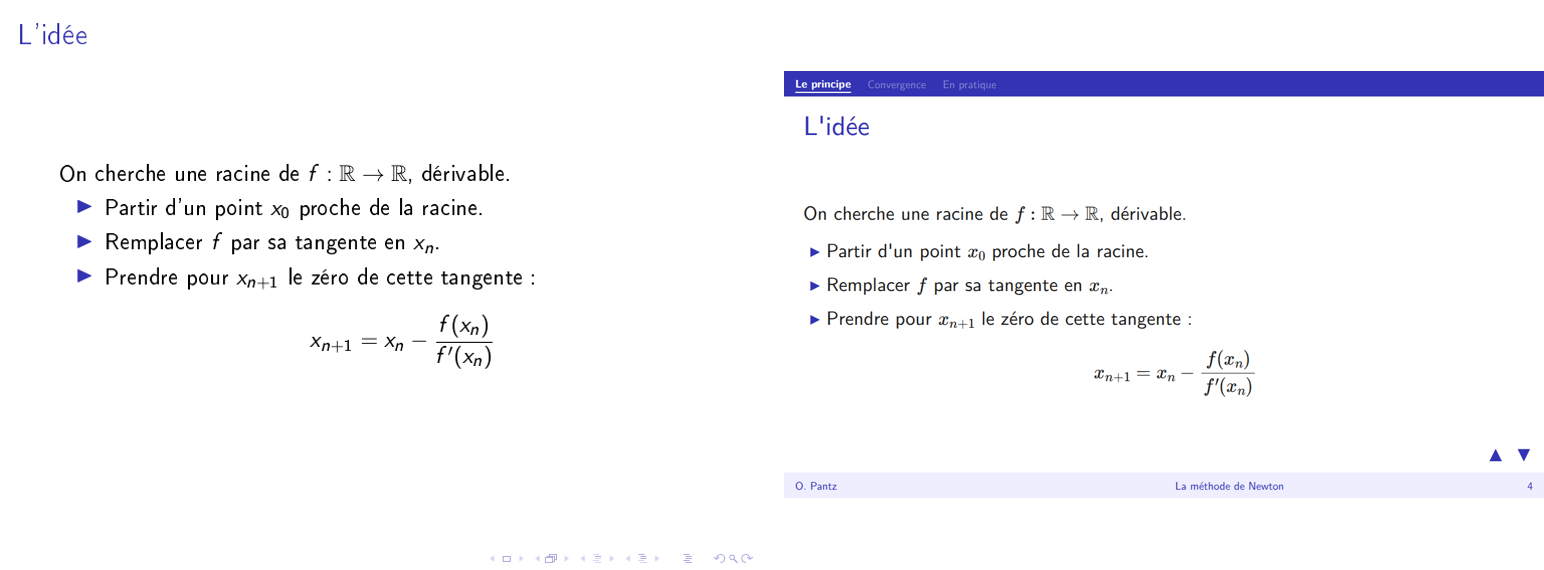
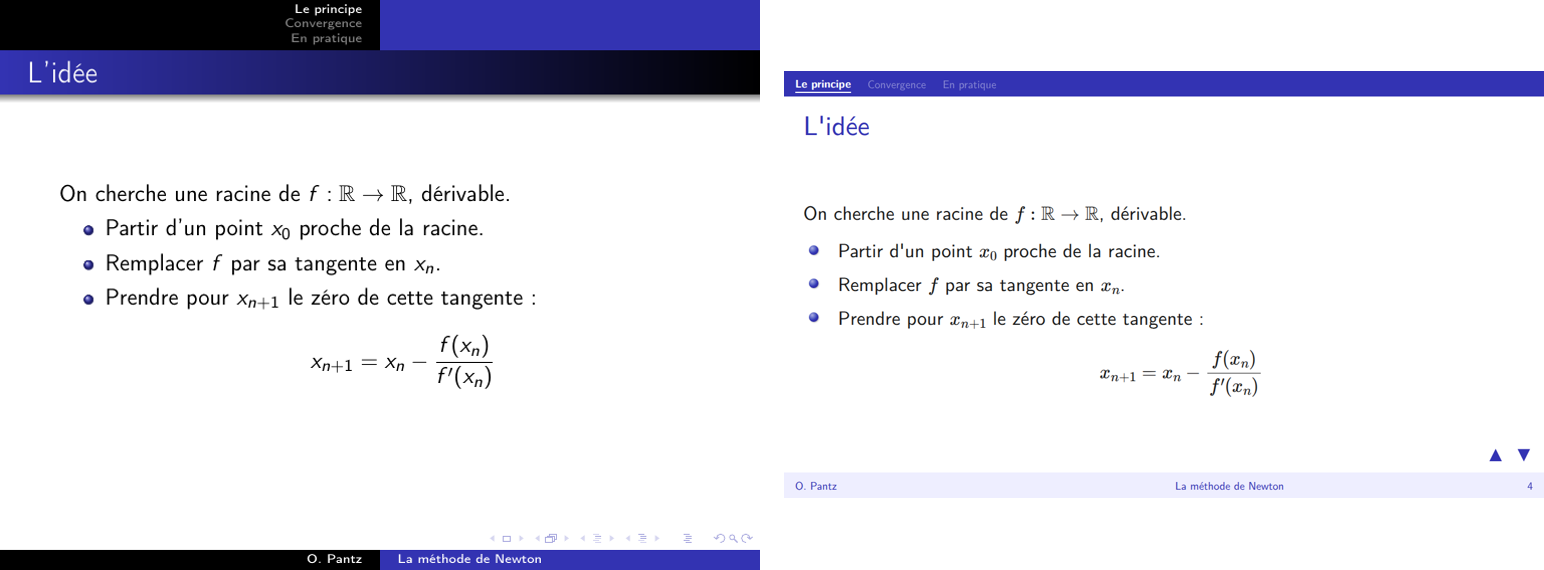
beamer theme: Warsaw-style lists, page numbers back in the examples, comparison against Warsaw
- bullets are small shaded balls, enumerations numbered balls, coloured
  by the enclosing block (blue / red / green) as in Warsaw
- examples/beamer.html and examples/newton/newton.html get class
  pagenumber on #slides; documented in the guide
- docs/compare*.png regenerated from the Warsaw PDF

diff --git a/themes/beamer.css b/themes/beamer.css
@@ -70,8 +70,39 @@ time { font-size: 0.7em; color: var(--structure-light); }
 em     { color: var(--structure); font-style: normal; }
 strong { color: var(--structure); }
 
-/* Lists: beamer's triangle bullets (colour comes from layouts.css ::marker) */
-section ul { list-style-type: "\25B8  "; }
+/* Lists, like Warsaw (inner theme "rounded"): a small shaded ball for
+ * bullets, a numbered ball for enumerations. Inside a block, the balls
+ * take the block's colour (--block-color: blue, red or green). */
+section ul, section ol { list-style: none; padding-left: 0.3em; }
+section ul > li, section ol > li { position: relative; padding-left: 1.5em; }
+section ul > li::before, section ol > li::before {
+	content: "";
+	position: absolute;
+	left: 0;
+	border-radius: 50%;
+	background: radial-gradient(circle at 35% 30%,
+		color-mix(in srgb, var(--block-color, var(--structure)) 40%, white) 0%,
+		var(--block-color, var(--structure)) 55%,
+		color-mix(in srgb, var(--block-color, var(--structure)) 80%, black) 100%);
+	box-shadow: 0.03em 0.03em 0.08em rgba(0, 0, 0, 0.4);
+}
+section ul > li::before {
+	top: 0.5em;
+	width: 0.5em;
+	height: 0.5em;
+}
+section ol { counter-reset: item; }
+section ol > li { counter-increment: item; }
+section ol > li::before {
+	content: counter(item);
+	top: 0.2em;
+	width: 1.1em;
+	height: 1.1em;
+	line-height: 1.1em;
+	text-align: center;
+	font-size: 0.75em;
+	color: var(--paper);
+}
 
 /* ---- headline: table of contents ---- */
 #toc {
@@ -130,7 +161,10 @@ section .toc .toc-level-1::before {
 	border-radius: 50%;
 	text-align: center;
 	font-size: 0.8em;
-	background: var(--structure);
+	background: radial-gradient(circle at 35% 30%,
+		color-mix(in srgb, var(--structure) 40%, white) 0%,
+		var(--structure) 55%,
+		color-mix(in srgb, var(--structure) 80%, black) 100%);
 	color: var(--paper);
 	box-shadow: 0.05em 0.05em 0.15em rgba(0, 0, 0, 0.4);
 	vertical-align: 0.1em;

diff --git a/examples/beamer.html b/examples/beamer.html
@@ -14,7 +14,7 @@
   <nav id="toc"></nav>
   <div id="footline"><span>O. Pantz</span><span>Transition.js — un exemple inspiré de beamer</span></div>
 
-  <div id="slides">
+  <div id="slides" class="pagenumber">
     <section>
       <div class="center">
         <hgroup>

diff --git a/examples/newton/newton.html b/examples/newton/newton.html
@@ -15,7 +15,7 @@
   <nav id="toc"></nav>
   <div id="footline"><span>O. Pantz</span><span>La méthode de Newton</span></div>
 
-  <div id="slides">
+  <div id="slides" class="pagenumber">
 
     <section>
       <div class="center">

diff --git a/GUIDE.md b/GUIDE.md
@@ -272,7 +272,7 @@ Les couleurs viennent de trois variables que le thème peut redéfinir : `--stru
 ```html
 <nav id="toc"></nav>                               <!-- barre de sommaire, en haut -->
 <div id="footline"><span>Auteur</span><span>Titre</span></div>   <!-- en bas -->
-<div id="slides">
+<div id="slides" class="pagenumber">                <!-- pagenumber : numéro en bas à droite de chaque diapo -->
   <section><div><hgroup><h1>Titre</h1><h4>Sous-titre</h4></hgroup><address>…</address><time>…</time></div></section>
   <section><h3>Sommaire</h3><div><nav class="toc"></nav></div></section>
   <h2>Première partie</h2>
@@ -285,6 +285,8 @@ Les couleurs viennent de trois variables que le thème peut redéfinir : `--stru
   </section>
 </div>
 ```
+
+Les listes suivent le thème Warsaw de beamer : une petite bille pour les puces, une bille numérotée pour les énumérations, à la couleur du bloc qui les contient. Le numéro de page n'est affiché que si `#slides` porte la classe `pagenumber` (Warsaw n'en affiche pas).
 
 L'exemple `examples/newton/` contient le même exposé en `newton.tex` et `newton.html`, structure pour structure ; c'est la meilleure façon de voir la correspondance.
 

diff --git a/README.md b/README.md
@@ -6,7 +6,7 @@ Transition.js is a 500-line JavaScript file with no dependency. It does one thin
 
 <p align="center"><img src="docs/compare.png" width="900" alt="The same talk in beamer (left) and Transition.js (right)"></p>
 
-*Left: beamer. Right: the same talk in Transition.js, from [`examples/newton/`](examples/newton/). Both sources are there; put them side by side.*
+*Left: beamer (Warsaw theme). Right: the same talk in Transition.js, from [`examples/newton/`](examples/newton/). Both sources are there; put them side by side.*
 
 ## Try it in thirty seconds
 
